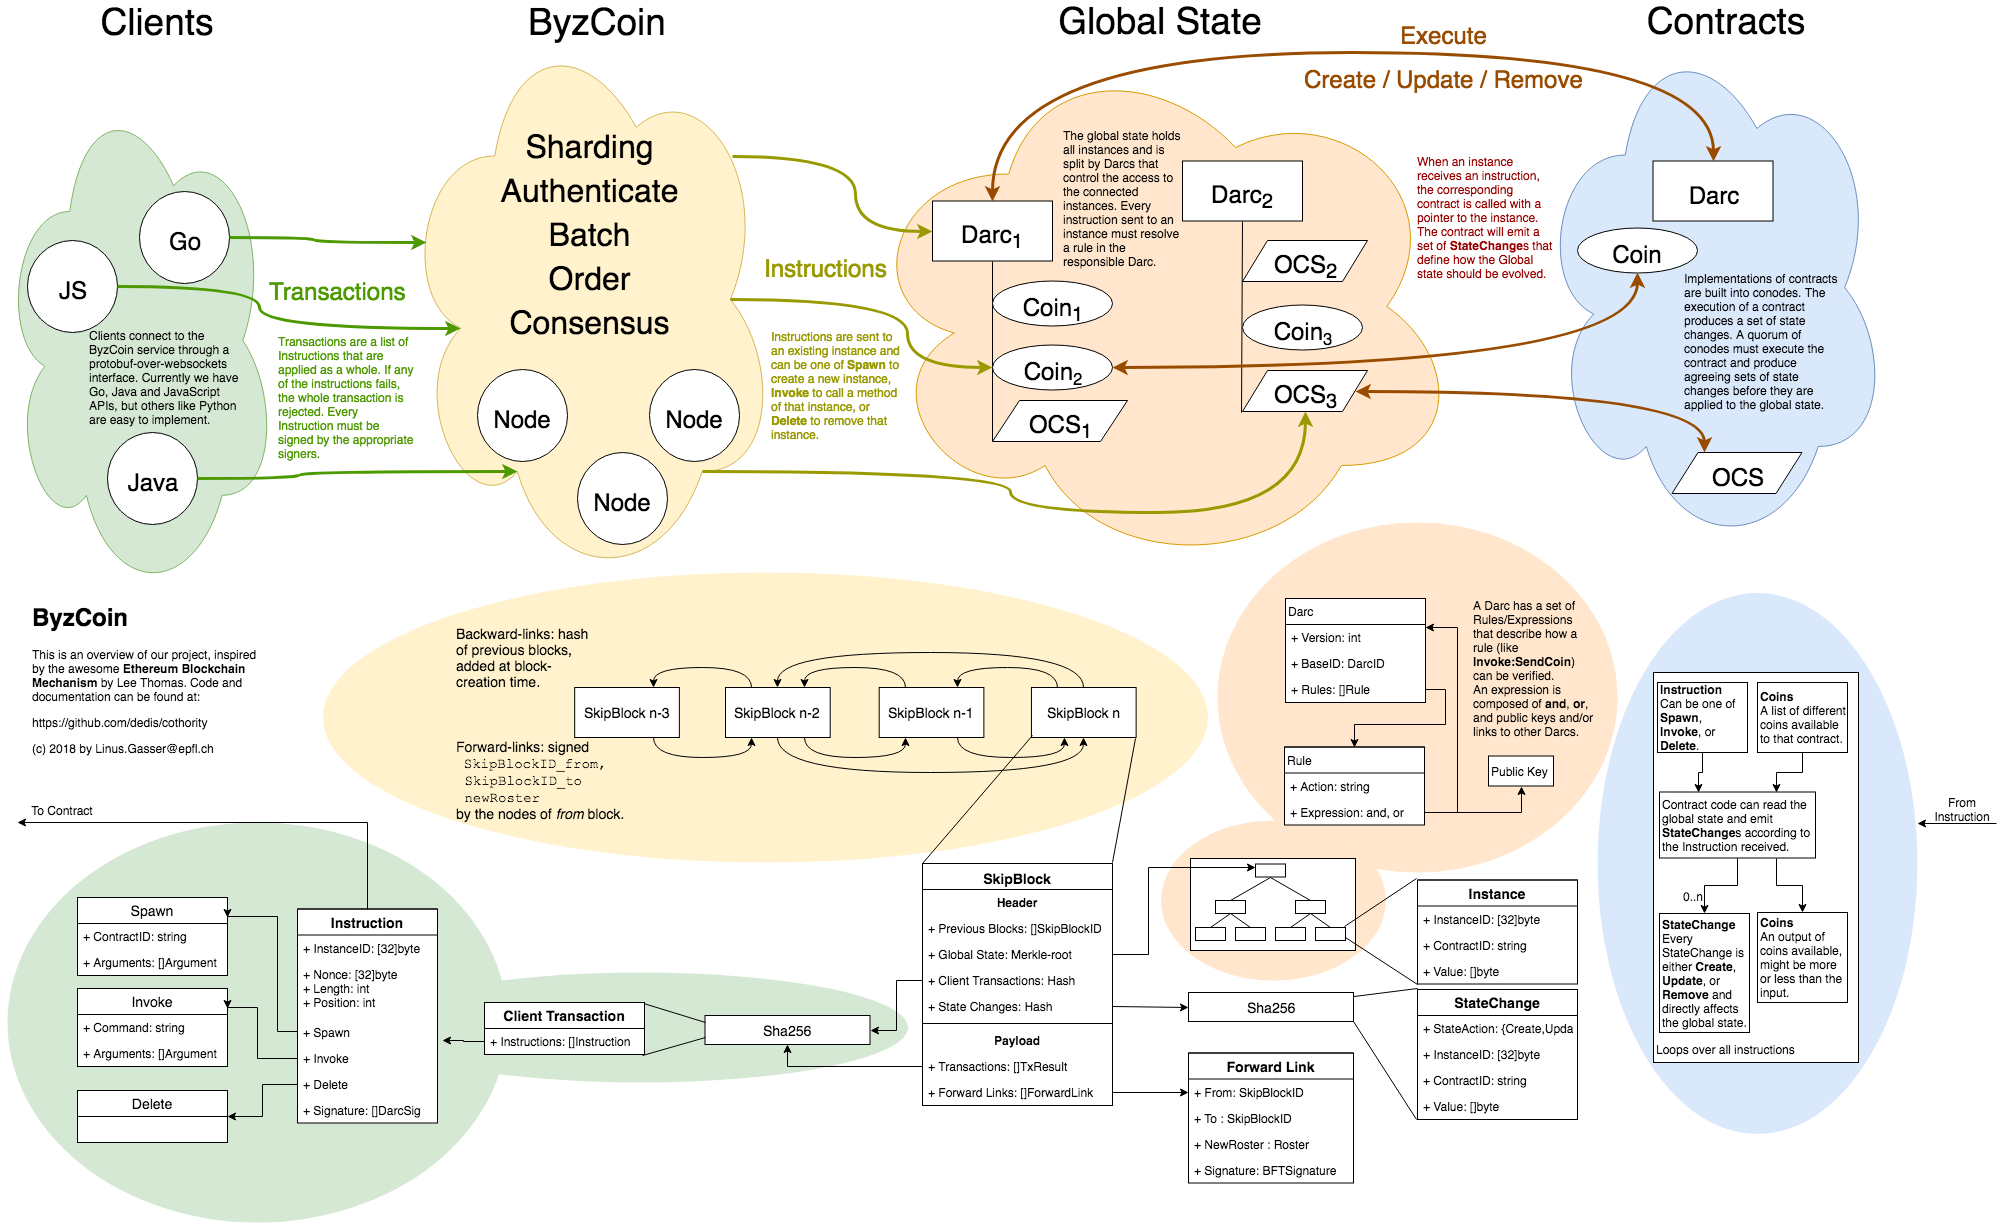
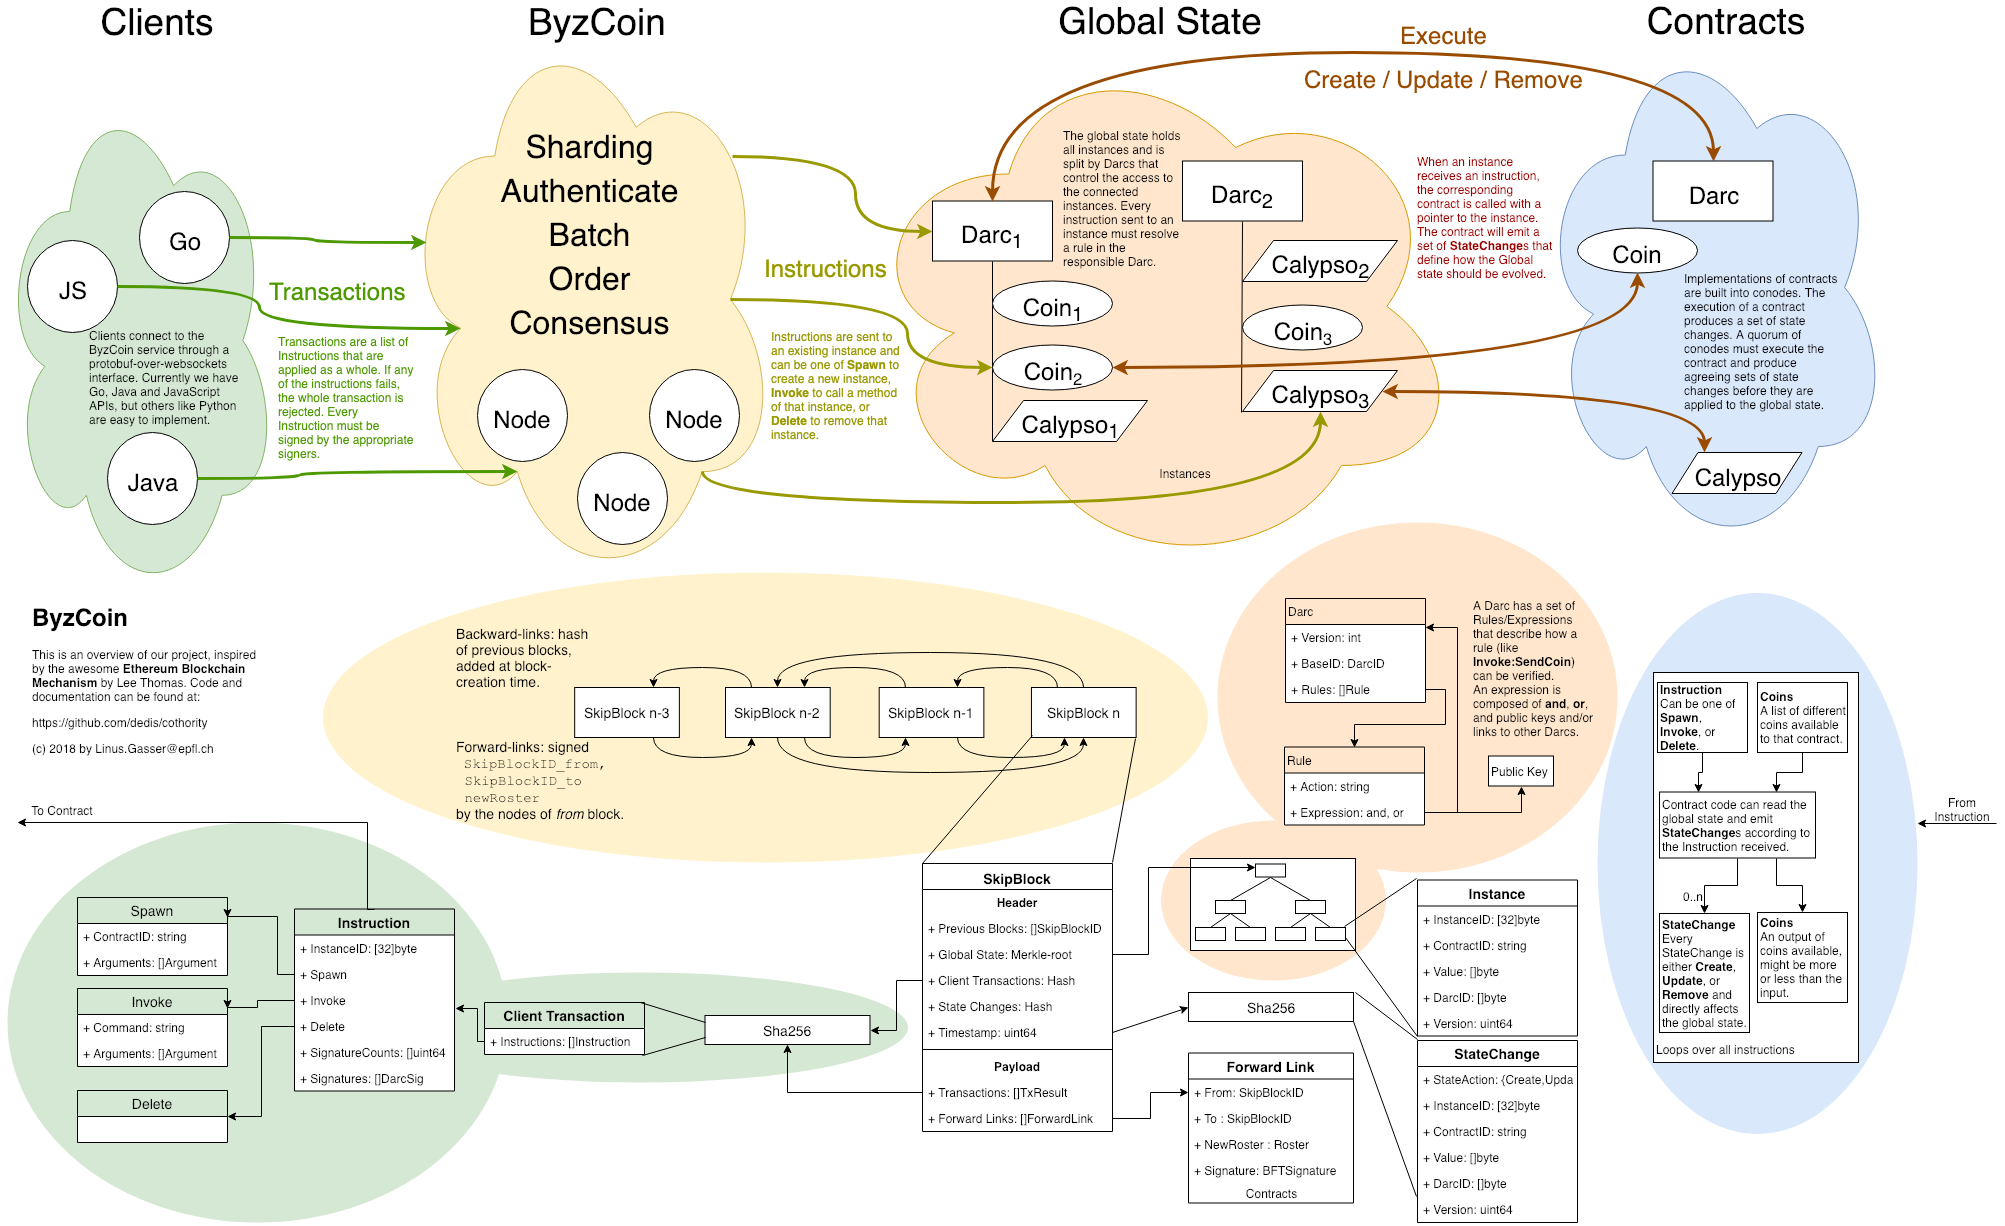
Update the ByzCoin diagram to match reality
Also: Remove old references to collection.

diff --git a/byzcoin/service.go b/byzcoin/service.go
@@ -38,7 +38,7 @@ var pairingSuite = suites.MustFind("bn256.adapter").(*pairing.SuiteBn256)
 // not trigger, and the acceptable window would be ± 30 sec.
 var minTimestampWindow = 10 * time.Second
 
-// For tests to influence when the whole collection will be downloaded if
+// For tests to influence when the whole trie will be downloaded if
 // some blocks are missing.
 var catchupDownloadAll = 100
 
@@ -130,8 +130,8 @@ type Service struct {
 
 	streamingMan streamingManager
 
-	updateCollectionLock sync.Mutex
-	catchingUp           bool
+	updateTrieLock sync.Mutex
+	catchingUp     bool
 
 	downloadState downloadState
 }
@@ -345,8 +345,8 @@ func (s *Service) AddTransaction(req *AddTxRequest) (*AddTxResponse, error) {
 // GetProof searches for a key and returns a proof of the
 // presence or the absence of this key.
 func (s *Service) GetProof(req *GetProof) (resp *GetProofResponse, err error) {
-	s.updateCollectionLock.Lock()
-	defer s.updateCollectionLock.Unlock()
+	s.updateTrieLock.Lock()
+	defer s.updateTrieLock.Unlock()
 	if s.catchingUp {
 		return nil, errors.New("currently catching up on our state")
 	}
@@ -458,8 +458,8 @@ func (s *Service) GetSignerCounters(req *GetSignerCounters) (*GetSignerCountersR
 // DownloadState creates a snapshot of the current state and then returns the
 // instances in small chunks.
 func (s *Service) DownloadState(req *DownloadState) (resp *DownloadStateResponse, err error) {
-	s.updateCollectionLock.Lock()
-	defer s.updateCollectionLock.Unlock()
+	s.updateTrieLock.Lock()
+	defer s.updateTrieLock.Unlock()
 	if req.Length <= 0 {
 		return nil, errors.New("length must be bigger than 0")
 	}
@@ -842,9 +842,9 @@ func (s *Service) downloadDB(sb *skipchain.SkipBlock) error {
 // the full DB over the network.
 func (s *Service) catchUp(sb *skipchain.SkipBlock) {
 	defer func() {
-		s.updateCollectionLock.Lock()
+		s.updateTrieLock.Lock()
 		s.catchingUp = false
-		s.updateCollectionLock.Unlock()
+		s.updateTrieLock.Unlock()
 	}()
 
 	// Load the trie.
@@ -882,7 +882,7 @@ func (s *Service) catchUp(sb *skipchain.SkipBlock) {
 			return
 		}
 
-		// This will call updateCollectionCallback with the next block to add
+		// This will call updateTrieCallback with the next block to add
 		_, err = s.db().StoreBlocks(updates)
 		if err != nil {
 			log.Error("Got an invalid, unlinkable block: " + err.Error())
@@ -899,8 +899,8 @@ func (s *Service) catchUp(sb *skipchain.SkipBlock) {
 // Hence, we need to figure out when a new block is added. This can be done by
 // looking at the latest skipblock cache from Service.state.
 func (s *Service) updateTrieCallback(sbID skipchain.SkipBlockID) error {
-	s.updateCollectionLock.Lock()
-	defer s.updateCollectionLock.Unlock()
+	s.updateTrieLock.Lock()
+	defer s.updateTrieLock.Unlock()
 
 	s.closedMutex.Lock()
 	defer s.closedMutex.Unlock()
@@ -908,7 +908,7 @@ func (s *Service) updateTrieCallback(sbID skipchain.SkipBlockID) error {
 		return nil
 	}
 
-	defer log.Lvlf4("%s updated collection for %x", s.ServerIdentity(), sbID)
+	defer log.Lvlf4("%s updated trie for %x", s.ServerIdentity(), sbID)
 
 	// Verification it's really a skipchain for us.
 	if !s.hasByzCoinVerification(sbID) {
@@ -967,8 +967,8 @@ func (s *Service) updateTrieCallback(sbID skipchain.SkipBlockID) error {
 	trieIndex := st.GetIndex()
 	if sb.Index <= trieIndex {
 		// This is because skipchains will inform us about new forwardLinks, but we
-		// don't need to update the collection in that case.
-		log.Lvlf4("%v updating collection for block %d refused, current collection block is %d", s.ServerIdentity(), sb.Index, trieIndex)
+		// don't need to update the trie in that case.
+		log.Lvlf4("%v updating trie for block %d refused, current trie block is %d", s.ServerIdentity(), sb.Index, trieIndex)
 		return nil
 	} else if sb.Index > trieIndex+1 {
 		if s.catchingUp {
@@ -1007,7 +1007,7 @@ func (s *Service) updateTrieCallback(sbID skipchain.SkipBlockID) error {
 	if !bytes.Equal(st.GetRoot(), header.TrieRoot) {
 		// TODO: if this happens, we've now got a corrupted cdb. See issue #1447.
 		// This should never happen...
-		panic(s.ServerIdentity().String() + ": hash of collection doesn't correspond to root hash")
+		panic(s.ServerIdentity().String() + ": hash of trie doesn't correspond to root hash")
 	}
 
 	err = s.stateChangeStorage.append(scs, sb)
@@ -1565,7 +1565,7 @@ func (s *Service) createStateChanges(sst *stagingStateTrie, scID skipchain.SkipB
 
 	var maxsz, blocksz int
 	_, maxsz, err = s.LoadBlockInfo(scID)
-	// no error or expected noCollection err, so keep going with the
+	// no error or expected "no trie" err, so keep going with the
 	// maxsz we got.
 	err = nil
 

diff --git a/byzcoin/contracts.go b/byzcoin/contracts.go
@@ -325,7 +325,7 @@ func (c *contractDarc) Spawn(rst ReadOnlyStateTrie, inst Instruction, coins []Co
 	// Pass nil into the contract factory here because this instance does not exist yet.
 	// So the factory will make a zero-value instance, and then calling Spawn on it
 	// will give it a chance to encode it's zero state and emit one or more StateChanges to put itself
-	// into the collection.
+	// into the trie.
 	c2, err := cfact(nil)
 	if err != nil {
 		return nil, nil, fmt.Errorf("coult not spawn new zero instance: %v", err)

diff --git a/byzcoin/proto.go b/byzcoin/proto.go
@@ -240,7 +240,7 @@ type StateChange struct {
 	Value []byte
 	// DarcID is the Darc controlling access to this key.
 	DarcID darc.ID
-	// Version is the monotonically increased version of the instance
+	// Version is the monotonically increasing version of the instance
 	Version uint64
 }
 
